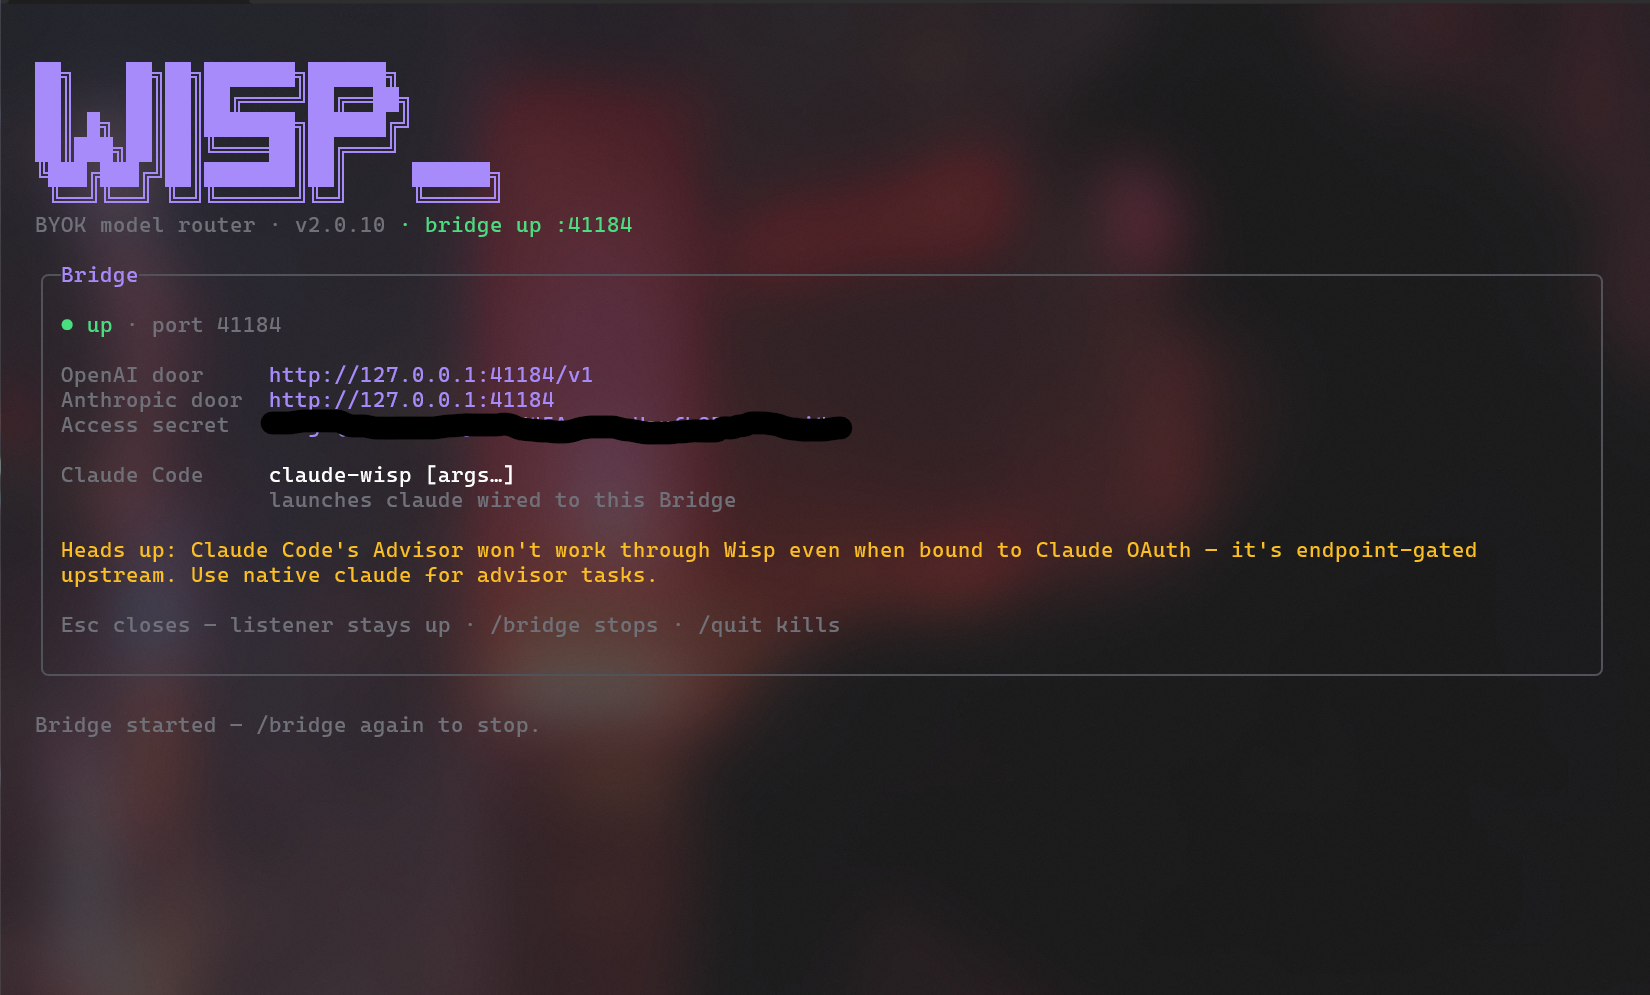
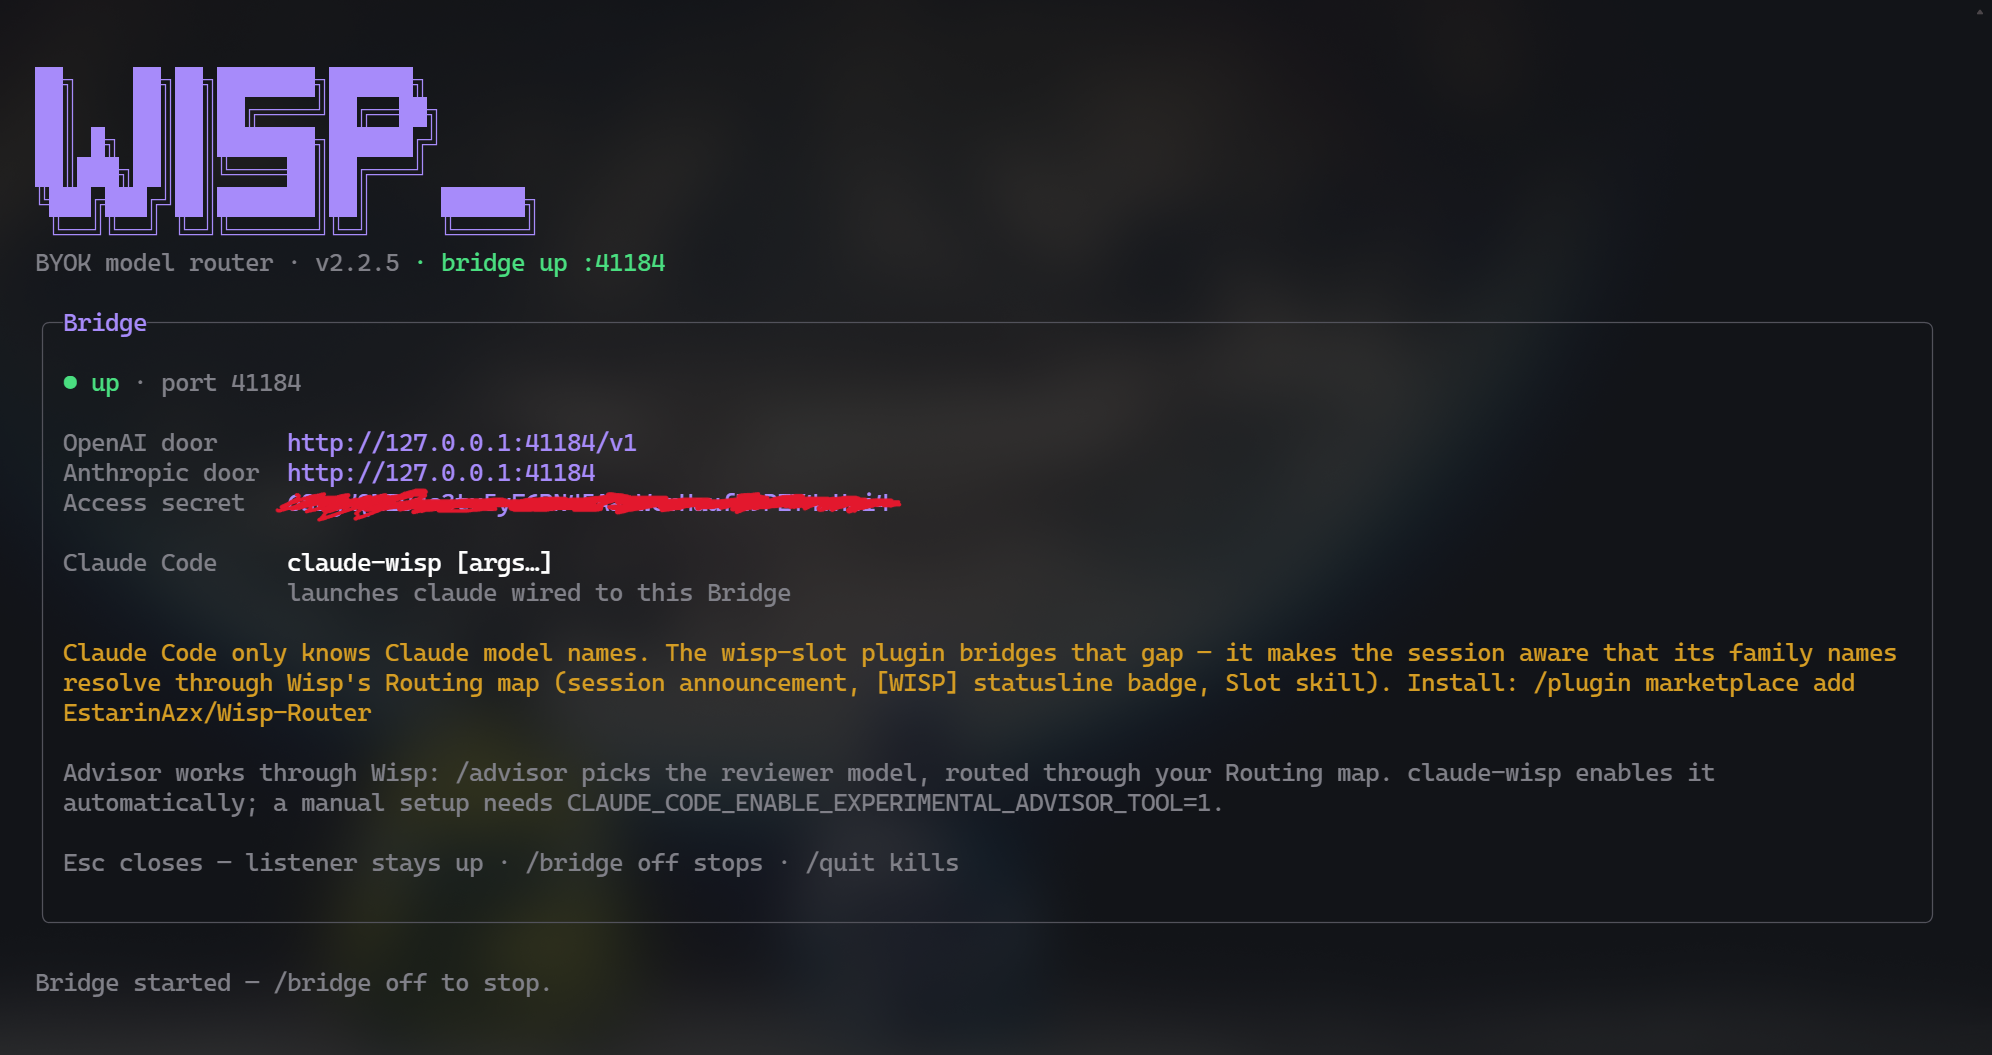
docs: refresh screenshots and mark Desktop bridge experimental (#226)

diff --git a/README.md b/README.md
@@ -29,18 +29,32 @@ Wisp routes your own model backends — your **ChatGPT (Codex) subscription**, y
 
 - **VS Code** — providers show up as native models in Copilot's **Chat view**, **Agent mode**, and the **`Ctrl+I`** picker, with streaming, tool calling, vision, and live per-model context windows.
 - **Claude Code** — the **Bridge** exposes OpenAI `/v1/chat/completions` and Anthropic `/v1/messages`; `claude-wisp` launches Claude Code already wired to it.
-- **Native Codex** — terminal **2.2.5** provides reversible `wisp codex-desktop` setup and `/gpt-desktop on|off` for signed-in Desktop routing; companion VSIX **1.14.2** hosts the same protocol-5 Bridge. Includes native voice signaling and qualified opt-in Antigravity `gemini-3.8-flash-tiered` support. [Desktop setup, tradeoffs and rollback](docs/codex-desktop.md). The existing [codex-wisp launcher](docs/codex-wisp.md) remains available. Grok and the qualified Antigravity target have passed bounded Desktop checks; other targets and Traycer GUI integration remain **NOT VERIFIED**.
+- **ChatGPT Desktop (Codex) — experimental** — the new Desktop bridge puts Wisp aliases alongside native models in the desktop picker, with native sign-in and voice support. See the [Desktop preview and setup](#chatgpt-desktop-codex-bridge--experimental). The [codex-wisp launcher](docs/codex-wisp.md) is also available for the native Codex CLI.
 - **Terminal** — the **Wisp TUI** manages providers, keys, OAuth sign-ins, and routing, and hosts the Bridge headlessly (`wisp serve`).
 
 The OAuth part is the reason Wisp exists: VS Code's built-in "add a custom model" BYOK stops at static API keys — it can't sign in to a ChatGPT or Claude.ai subscription. Wisp can.
 
 ## Bridge in the TUI
 
-`/bridge` starts the local endpoint. OpenAI + Anthropic doors, the generated access secret, and `claude-wisp` to launch Claude Code already wired to it:
+`/bridge` starts the local endpoint or shows the running Bridge. The panel lists the OpenAI and Anthropic doors, the generated access secret, and `claude-wisp` to launch Claude Code already wired to it. It also includes Slot plugin and Advisor guidance.
 
 <p align="center">
-  <img src="docs/bridge-tui.png" alt="Wisp TUI Bridge panel — bridge up on port 41184" width="720">
+  <img src="docs/bridge-tui.png" alt="Wisp 2.2.5 Bridge panel on port 41184, with the access secret redacted, Slot plugin instructions and Advisor guidance" width="960">
 </p>
+
+Press **Esc** to close the panel while the Bridge keeps running. Use **`/bridge off`** to stop it, or `wisp serve` to host it without the TUI. The access secret is hidden in this screenshot; keep yours private.
+
+## ChatGPT Desktop (Codex) bridge — experimental
+
+Wisp now brings your configured model aliases into the signed-in Desktop model picker. The screenshot shows **Grok 4.7** selected through a Wisp Alias alongside native Codex models. Native model names keep their own capabilities and ChatGPT sign-in; external aliases use the Provider credentials configured in Wisp.
+
+<p align="center">
+  <img src="docs/chatgpt-desktop-model-picker.png" alt="ChatGPT Desktop Codex model picker with native GPT models and the Grok 4.7 Wisp Alias selected" width="960">
+</p>
+
+**Experimental:** Grok and the qualified Antigravity `gemini-3.8-flash-tiered` target have passed limited Desktop checks. Other targets and Traycer GUI integration remain unverified. Native voice uses your existing ChatGPT sign-in and speech service; the selected Wisp model handles the text and tool turns.
+
+Start the Bridge, then use **`/gpt-desktop on`** in the Wisp TUI and restart Desktop. **`/gpt-desktop off`** restores Wisp-owned native settings; restart Desktop again afterward. These commands leave the Bridge running state unchanged. The `on` shortcut enables Antigravity compatibility, which makes developer notes global and loses their original placement and temporal scope. For strict instruction handling, use `wisp codex-desktop enable --antigravity-instructions=strict` instead. Read the [setup, supported routes and rollback guide](docs/codex-desktop.md) before enabling.
 
 ## Routing aliases
 
@@ -83,7 +97,7 @@ wisp serve             # headless Bridge (no UI, Ctrl+C stops)
 claude-wisp            # launch Claude Code routed through the Bridge
 ```
 
-**2.2.5** provides `wisp codex-desktop enable|status|refresh|disable` and TUI `/gpt-desktop on|off` for persistent
+**Experimental Desktop bridge:** terminal **2.2.5** provides `wisp codex-desktop enable|status|refresh|disable` and TUI `/gpt-desktop on|off` for persistent
 signed-in Codex configuration. It needs a 2.2.5 Bridge or companion VSIX **1.14.2** and an
 independently installed native Codex CLI. Keep the Bridge running and restart Codex after enable,
 refresh or disable. Existing installations remain unchanged until explicitly updated. See [desktop setup and rollback](docs/codex-desktop.md).
@@ -113,7 +127,7 @@ The skill activates when you ask for a subagent on a model the Agent tool cannot
 
 - **13 built-in providers + Custom**, in four kinds: API-key (OpenAI-compatible), **Codex** (ChatGPT OAuth, Responses API), **Anthropic** (Claude.ai OAuth, Messages API), and **Grok** (xAI OAuth, Responses API). Grok ≠ the API-key **Groq** row.
 - **First-class in the Copilot harness** — streaming, tool calling (which is what makes a model selectable in Agent/Edit modes), vision attachments, a reasoning **Effort** knob, and live context windows from [models.dev](https://models.dev).
-- **Bridge** — a local (`127.0.0.1`-only) endpoint guarded by a generated secret, speaking both the OpenAI and Anthropic dialects, so external tools run on your providers.
+- **Bridge** — a local (`127.0.0.1`-only) endpoint guarded by a generated secret, supporting OpenAI Chat Completions, Anthropic Messages, and Codex Responses. Desktop routing is experimental.
 - **Routing map** — pin Claude Code's `opus` / `sonnet` / `haiku` / `fable` model families to any backend, or invent **aliases** (`/model sol`) pointing at exact provider+model targets; an alias-only mode keeps the `/model` picker clean.
 - **Inquire** (VS Code) — inline natural-language code edits: the model returns SEARCH/REPLACE blocks, applied as an accept/reject diff, fail-safe.
 - **One shared home** — both faces read `~/.wisp/` (`config.json` + owner-only `auth.json`); keys and tokens never live in VS Code settings.
@@ -132,7 +146,7 @@ Bun-workspaces monorepo — three packages, one root `bun.lock`.
 
 ```sh
 bun install        # root — one lockfile for all packages
-bun run test       # 434 Vitest tests (packages/core/tests)
+bun run test       # core Vitest suite (packages/core/tests)
 bun run compile    # typecheck + bundle + webview build (packages/vscode)
 ```
 

diff --git a/packages/vscode/README.md b/packages/vscode/README.md
@@ -1,5 +1,7 @@
 # Wisp
 
+**Experimental Desktop bridge:** ChatGPT Desktop (Codex) can use Wisp aliases alongside native models. See the [README preview](https://github.com/EstarinAzx/Wisp-Router#chatgpt-desktop-codex-bridge--experimental). Compatibility varies by Provider and model; verification boundaries are described below.
+
 **Companion 1.14.2:** the extension-hosted Bridge implements terminal 2.2.5's signed desktop protocol 5, including native voice signaling and qualified opt-in Antigravity routing. Native Codex names retain their full capabilities and desktop sign-in despite shared route overrides or Alias collisions. Configuration, refresh and rollback belong to terminal `wisp codex-desktop` or `/gpt-desktop on|off` in its TUI. Installation and running-Bridge handover are separate actions. [Desktop setup and limits](https://github.com/EstarinAzx/Wisp-Router/blob/main/docs/codex-desktop.md).
 
 Update the terminal setup command and serving Bridge together; older protocols are refused. A protocol-3 setup needs journaled disable then enable for voice settings. Only Antigravity `gemini-3.8-flash-tiered` is qualified under explicit compatibility: developer notes retain their text/order but apply globally, losing original placement and temporal scope. Strict mode and other Antigravity targets remain excluded. Native context limits still apply. Desktop qualification used the standalone Bridge; installed VS Code host behavior remains a separate verification boundary. Coordinate any installation/reload around active clients; keep the current working Bridge running until a handover is explicitly arranged. Slot is unchanged.

diff --git a/docs/codex-desktop.md b/docs/codex-desktop.md
@@ -1,5 +1,7 @@
 # Signed-in Codex desktop integration
 
+**Experimental:** the ChatGPT Desktop (Codex) bridge is available in Wisp 2.2.5. Grok and the qualified Antigravity target have passed limited Desktop checks; compatibility with every model, tool or future Desktop release is not established. See the [README preview](../README.md#chatgpt-desktop-codex-bridge--experimental).
+
 Terminal/npm **2.2.5** and companion VSIX **1.14.2** provide signed Desktop **protocol 5**, native voice signaling and qualified opt-in Antigravity routing. Native models retain their capabilities and separate sign-in. Update both setup and serving Bridge before enabling or refreshing; older protocols are refused even on repeated enable/refresh. Slot is unchanged.
 
 An existing protocol-3 configuration needs `disable` then `enable` to install the voice settings; `refresh` reports this explicitly. Coordinate this migration around active clients and keep the current working Bridge running until a handover is arranged. The user confirmed live Desktop voice and completed bounded Antigravity editing/tool/follow-up acceptance. See the [release notes](releases/v2.2.5.md) for delivery and verification boundaries.
